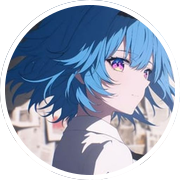
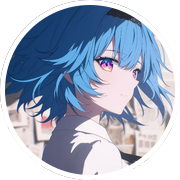
fix(ui): 提升小多头像清晰度 (#62)

diff --git a/web/tests/e2e/brand-mark.spec.ts b/web/tests/e2e/brand-mark.spec.ts
@@ -73,3 +73,19 @@ test('public library and studio expose Xiaoduo titles and favicon', async ({
   await expect(page).toHaveURL(/\/studio$/)
   await expect(page).toHaveTitle('小多写作台')
 })
+
+test('Xiaoduo avatar source is high resolution and square', async ({
+  page,
+}) => {
+  await page.goto('/')
+
+  const dimensions = await page.evaluate(async () => {
+    const image = new Image()
+    image.src = '/xiaoduo-mark.jpg'
+    await image.decode()
+    return { width: image.naturalWidth, height: image.naturalHeight }
+  })
+
+  expect(dimensions.width).toBeGreaterThanOrEqual(512)
+  expect(dimensions.height).toBeGreaterThanOrEqual(512)
+})

diff --git a/web/src/app/globals.css b/web/src/app/globals.css
@@ -624,7 +624,7 @@ select:focus {
   width: 100%;
   height: 100%;
   object-fit: cover;
-  object-position: 42% 46%;
+  object-position: 50% 46%;
   transform: scale(1.04);
 }
 
